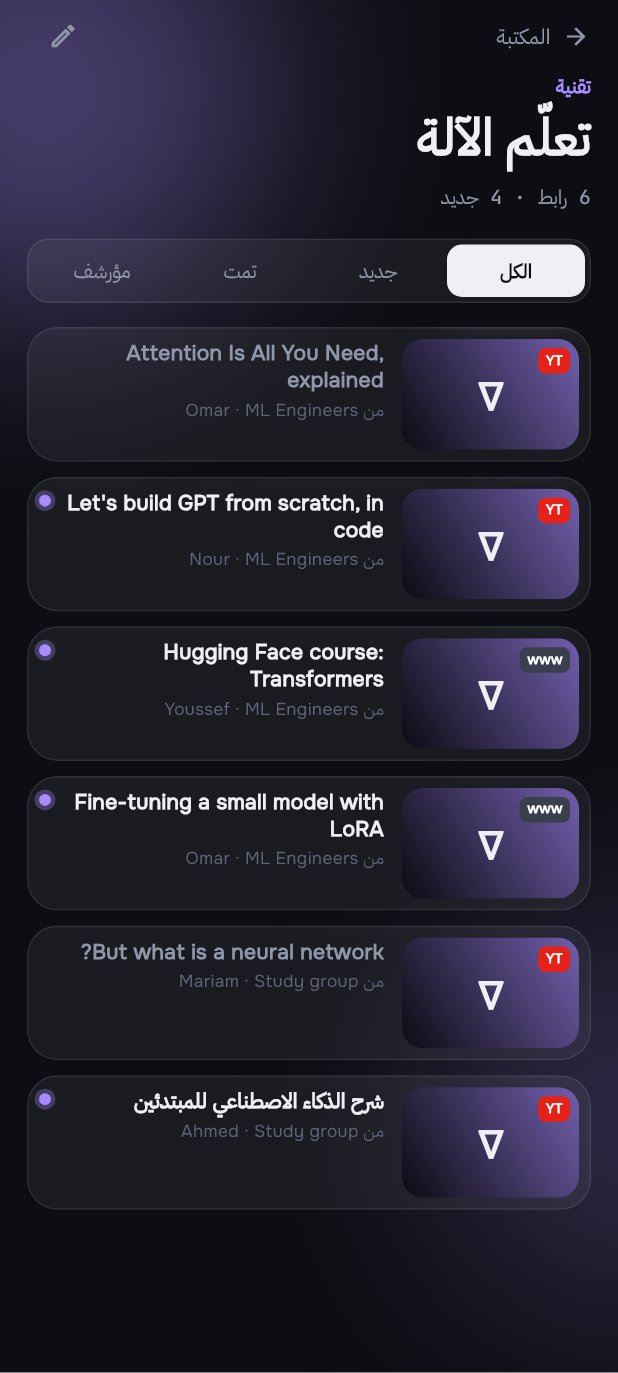
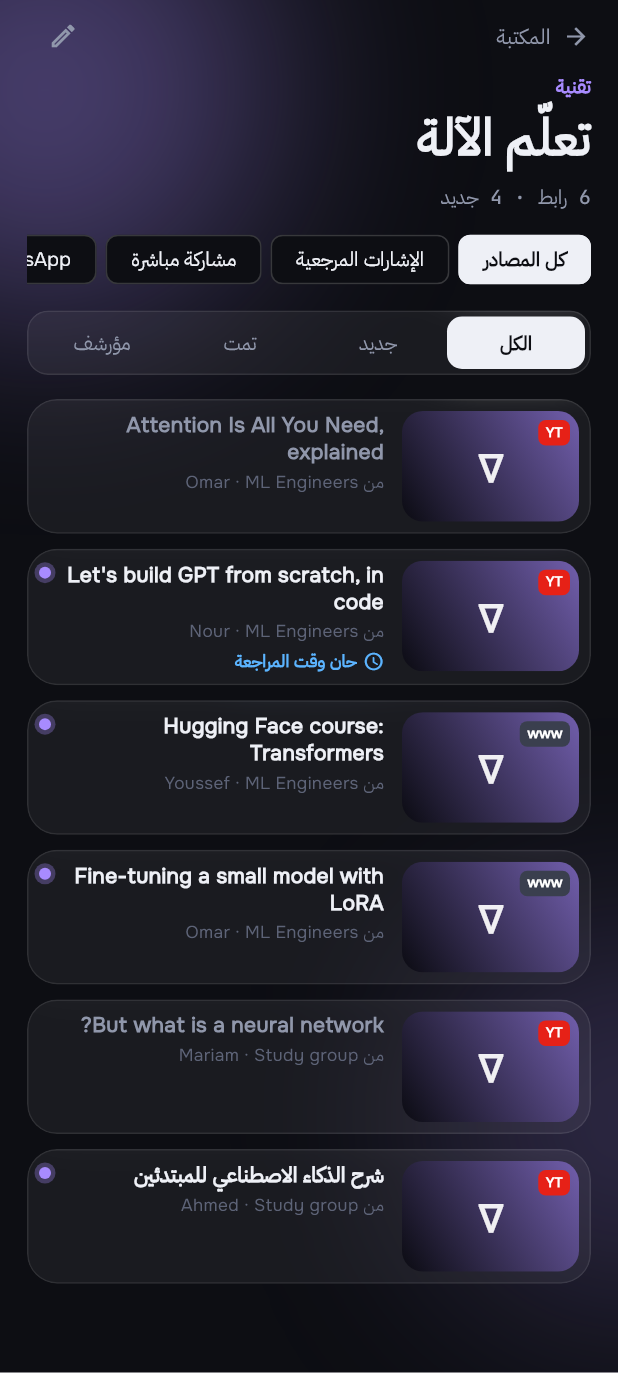
Download from GitHub releases; page and README for 1.4.1
Download button and install steps (LinkVault.apk on the latest release),
the new imports (Facebook, Instagram, YouTube, LinkedIn, link lists),
Revisit reminders and the source filter, fresh screenshots, 132 tests.

Claude-Session: https://claude.ai/code/session_01PdiUrE4Z5yNKRQcADhiDZ4

diff --git a/index.html b/index.html
@@ -4,7 +4,7 @@
 <meta charset="utf-8">
 <meta name="viewport" content="width=device-width, initial-scale=1">
 <title>LinkVault</title>
-<meta name="description" content="All the links people send you, sorted by topic, on your phone. Share from any app or import WhatsApp chats and bookmarks. No account, no server, English and Arabic.">
+<meta name="description" content="All the links people send you, sorted by topic, on your phone. Share from any app, paste a list, or import WhatsApp, Facebook, Instagram, YouTube, LinkedIn and bookmarks. No account, no server, English and Arabic.">
 <meta property="og:title" content="LinkVault">
 <meta property="og:description" content="All the links people send you, sorted by topic, on your phone.">
 <meta property="og:image" content="images/library-en.png">
@@ -165,6 +165,7 @@ footer .wrap { display: flex; flex-wrap: wrap; gap: 16px; justify-content: space
       <a href="#features">Features</a>
       <a href="#sorting">How it sorts</a>
       <a href="#screens">Screens</a>
+      <a href="#download">Download</a>
       <a class="keep" href="privacy.html">Privacy</a>
     </div>
   </div>
@@ -173,12 +174,12 @@ footer .wrap { display: flex; flex-wrap: wrap; gap: 16px; justify-content: space
 <main class="wrap" id="top">
   <div class="hero">
     <div class="reveal">
-      <span class="badge"><b></b>Android · English &amp; العربية · Version 1.0</span>
+      <span class="badge"><b></b>Android · English &amp; العربية · Version 1.4.1</span>
       <h1>All the links people send you, <em>sorted by topic</em>.</h1>
       <p class="lead">That lecture from a group chat, the article a friend sent last month, the course you bookmarked: LinkVault collects them in one place and sorts them by what they're about. On your phone, with no account and no server.</p>
       <div class="cta">
-        <a class="btn main" href="#screens">See it in action →</a>
-        <a class="btn ghost" href="#sorting">How it sorts</a>
+        <a class="btn main" href="https://github.com/mohamed-ibrahim47/linkvault-showcase/releases/latest/download/LinkVault.apk">Download for Android</a>
+        <a class="btn ghost" href="#screens">See it in action →</a>
       </div>
     </div>
     <div class="phones" aria-hidden="true">
@@ -192,7 +193,7 @@ footer .wrap { display: flex; flex-wrap: wrap; gap: 16px; justify-content: space
   <div class="stats reveal">
     <div class="stat"><b>0</b><span>accounts, passwords or servers</span></div>
     <div class="stat"><b>3</b><span>ways to sort, from keywords to on-device AI</span></div>
-    <div class="stat"><b>99</b><span>automated tests, from parsing to phone and tablet sizes</span></div>
+    <div class="stat"><b>132</b><span>automated tests, from parsing to phone and tablet sizes</span></div>
     <div class="stat"><b>2</b><span>languages, English and Arabic</span></div>
   </div>
 
@@ -204,7 +205,7 @@ footer .wrap { display: flex; flex-wrap: wrap; gap: 16px; justify-content: space
         <p class="sub">Your links grouped into categories you can rename, recolour and add to. Each one opens straight in its own app.</p>
         <ul class="ticks">
           <li><span><b>Share from any app.</b> Tap Share, pick LinkVault, and it's saved and sorted before you're back in the chat.</span></li>
-          <li><span><b>Paste a link</b> with the + button. If one is on your clipboard, it's already filled in.</span></li>
+          <li><span><b>Paste a link, or a whole list</b> with the + button. A OneTab export or a note full of links comes in at once, titles kept.</span></li>
           <li><span><b>New, Done, Archived:</b> keep track of what you've watched or read.</span></li>
           <li><span><b>Search</b> titles, notes, tags, or who sent it and in which chat.</span></li>
         </ul>
@@ -233,15 +234,32 @@ footer .wrap { display: flex; flex-wrap: wrap; gap: 16px; justify-content: space
         <p class="sub">From files you export yourself. LinkVault reads them on the phone and never logs in anywhere.</p>
         <ul class="ticks">
           <li><span><b>WhatsApp chats:</b> Export chat → Without media, then share it to LinkVault. Android, iPhone and Arabic-format exports all work.</span></li>
+          <li><span><b>Facebook, Messenger and Instagram:</b> saved posts and links from chats, from Meta's own "Export your information" download.</span></li>
+          <li><span><b>YouTube</b> Watch later, Liked videos and your playlists from Google Takeout, and <b>LinkedIn</b> links from messages, saved jobs and your posts.</span></li>
           <li><span><b>Browser bookmarks</b> from Chrome, Edge, Firefox or Safari. Folder names become sorting hints.</span></li>
+          <li><span><b>Filter by source:</b> see only what came from WhatsApp, Bookmarks, YouTube and so on, on every screen.</span></li>
           <li><span><b>No duplicates.</b> Import the same chat again and only new links come in. The same link from two people is one link with two senders.</span></li>
           <li><span><b>Moving phones?</b> Export your library, then import that file on the new phone.</span></li>
         </ul>
       </div>
-      <div class="shots"><div class="phone"><img src="images/import-en.png" alt="Import: WhatsApp, bookmarks and backups" loading="lazy"></div></div>
+      <div class="shots"><div class="phone"><img src="images/import-en.png" alt="Import: WhatsApp, Facebook, Instagram, YouTube, LinkedIn, bookmarks and lists" loading="lazy"></div></div>
     </div>
 
-    <div class="feature flip reveal" style="--c: rgba(255,181,71,.2)">
+    <div class="feature flip reveal" style="--c: rgba(91,180,255,.2)">
+      <div>
+        <div class="kicker">Revisit</div>
+        <h2>Not now? It reminds you</h2>
+        <p class="sub">Mark a link to come back to in a few hours, tomorrow or next week. When the time comes, your phone tells you.</p>
+        <ul class="ticks">
+          <li><span><b>A Revisit tab</b> with what's due now and what's coming up.</span></li>
+          <li><span><b>A notification</b> at the time you picked. Tap it and the link is open.</span></li>
+          <li><span><b>Watched it</b> marks it done, or push it back with <b>Remind me again</b>.</span></li>
+        </ul>
+      </div>
+      <div class="shots"><div class="phone"><img src="images/revisit-en.png" alt="Revisit: links coming back" loading="lazy"></div></div>
+    </div>
+
+    <div class="feature reveal" style="--c: rgba(255,181,71,.2)">
       <div>
         <div class="kicker">Sorting modes</div>
         <h2>You choose how smart it gets</h2>
@@ -295,6 +313,7 @@ footer .wrap { display: flex; flex-wrap: wrap; gap: 16px; justify-content: space
       <figure><div class="phone"><img src="images/category-en.png" alt="A category" loading="lazy"></div><figcaption>A category</figcaption></figure>
       <figure><div class="phone"><img src="images/link-en.png" alt="A link" loading="lazy"></div><figcaption>A link</figcaption></figure>
       <figure><div class="phone"><img src="images/unsorted-en.png" alt="Unsorted" loading="lazy"></div><figcaption>Unsorted</figcaption></figure>
+      <figure><div class="phone"><img src="images/revisit-en.png" alt="Revisit" loading="lazy"></div><figcaption>Revisit</figcaption></figure>
       <figure><div class="phone"><img src="images/import-en.png" alt="Import" loading="lazy"></div><figcaption>Import</figcaption></figure>
       <figure><div class="phone"><img src="images/modes-en.png" alt="Sorting modes" loading="lazy"></div><figcaption>Sorting modes</figcaption></figure>
       <figure><div class="phone"><img src="images/settings-en.png" alt="Settings" loading="lazy"></div><figcaption>Settings</figcaption></figure>
@@ -331,10 +350,24 @@ footer .wrap { display: flex; flex-wrap: wrap; gap: 16px; justify-content: space
     <div class="kicker">What's next</div>
     <h2>Coming later</h2>
     <div class="soon">
-      <div class="card"><h3>More imports</h3><p>Facebook and Messenger, Instagram saved posts, YouTube playlists and LinkedIn, from their own data downloads.</p></div>
       <div class="card"><h3>Phone AI</h3><p>On phones with a built-in model, one-line summaries and a second opinion when sorting is unsure.</p></div>
       <div class="card"><h3>Automatic backup</h3><p>To your own Google Drive, never to a LinkVault server.</p></div>
     </div>
+  </section>
+
+  <section id="download" class="reveal">
+    <div class="kicker">Download</div>
+    <h2>Get it on your Android phone</h2>
+    <p class="sub">Free, no ads, no account. Android 7 or newer. The file comes straight from this page's GitHub, signed by me, and every update keeps your links.</p>
+    <div class="cta" style="margin-top: 22px">
+      <a class="btn main" href="https://github.com/mohamed-ibrahim47/linkvault-showcase/releases/latest/download/LinkVault.apk">Download LinkVault.apk</a>
+      <a class="btn ghost" href="https://github.com/mohamed-ibrahim47/linkvault-showcase/releases">All versions and what's new</a>
+    </div>
+    <ul class="ticks">
+      <li><span><b>Open the downloaded file.</b> Android asks once to allow installs from your browser or Files app: tap Settings, turn on <b>Allow from this source</b>, and go back.</span></li>
+      <li><span><b>Tap Install.</b> If Play Protect says it doesn't know the app, tap <b>More details → Install anyway</b>. It's new and not on the Play Store, that's all.</span></li>
+      <li><span><b>Updating?</b> Download the new file and install it over the old one. Your library stays.</span></li>
+    </ul>
   </section>
 </main>
 

diff --git a/README.md b/README.md
@@ -8,7 +8,13 @@ That YouTube lecture from a group chat, the article a friend sent last month, th
 
 > The source code is private. This page shows what the app does and how it works.
 
-<!-- Store badge goes here once the app is live on the Galaxy Store -->
+## Download
+
+**[⬇ Download LinkVault.apk](https://github.com/mohamed-ibrahim47/linkvault-showcase/releases/latest/download/LinkVault.apk)** (latest version, Android 7+, free, no ads) · [all versions](https://github.com/mohamed-ibrahim47/linkvault-showcase/releases)
+
+1. Open the downloaded file. Android asks once to allow installs from your browser or Files app: tap **Settings**, turn on **Allow from this source**, go back.
+2. Tap **Install**. If Play Protect says it doesn't know the app, tap **More details → Install anyway**. It's simply not on the Play Store.
+3. To update, install the new file over the old one. Your library stays.
 
 ## Screenshots
 
@@ -18,17 +24,17 @@ Real screens from the app, with a made-up library.
 |---|---|---|---|
 | <img src="images/library-en.png" width="200" alt="Library"> | <img src="images/category-en.png" width="200" alt="A category"> | <img src="images/unsorted-en.png" width="200" alt="Unsorted with suggestions"> | <img src="images/import-en.png" width="200" alt="Import"> |
 
-| A link | Sorting modes | Settings | بالعربي |
+| A link | Revisit | Sorting modes | بالعربي |
 |---|---|---|---|
-| <img src="images/link-en.png" width="200" alt="A link and where it came from"> | <img src="images/modes-en.png" width="200" alt="Choosing how it sorts"> | <img src="images/settings-en.png" width="200" alt="Settings"> | <img src="images/library-ar.png" width="200" alt="Library in Arabic"> |
+| <img src="images/link-en.png" width="200" alt="A link and where it came from"> | <img src="images/revisit-en.png" width="200" alt="Revisit: links coming back"> | <img src="images/modes-en.png" width="200" alt="Choosing how it sorts"> | <img src="images/library-ar.png" width="200" alt="Library in Arabic"> |
 
 ## The core idea: it never sees a password
 
 Links come in only in ways you start yourself:
 
 - **The share sheet.** Tap Share on any link in any app and pick LinkVault. It's saved instantly and sorted.
-- **Paste.** The + button adds a link, already filled in if one is on your clipboard.
-- **Exports you download yourself.** WhatsApp's "Export chat" or your browser's bookmarks file. LinkVault reads the file on your phone and never logs in anywhere.
+- **Paste.** The + button adds a link, already filled in if one is on your clipboard, or a whole list of links at once.
+- **Exports you download yourself.** WhatsApp's "Export chat", Meta's or Google's data download, LinkedIn's data export, or your browser's bookmarks file. LinkVault reads the file on your phone and never logs in anywhere.
 
 Everything is stored and processed on the device. There is no LinkVault server.
 
@@ -36,10 +42,17 @@ Everything is stored and processed on the device. There is no LinkVault server.
 
 - **Imports**
   - **WhatsApp chats:** Android, iPhone and Arabic-format exports, `.txt` or `.zip`.
+  - **Facebook and Messenger:** saved items and links from chats, from Meta's "Export your information" (JSON).
+  - **Instagram:** saved posts and links from DMs, from the same Meta download.
+  - **YouTube:** Watch later, Liked videos and your own playlists from Google Takeout. The playlist name becomes the source.
+  - **LinkedIn:** links from messages (with who sent them), saved jobs and the links you posted, from LinkedIn's data export.
   - **Browser bookmarks:** Chrome, Edge, Firefox, Safari or Google Takeout. Your folder names become sorting hints.
+  - **Lists of links:** paste them into +, share a note into LinkVault, or pick a `.txt` file. OneTab's "url | title" lines keep their titles.
   - **LinkVault backups:** export your library, then import it on a new phone.
 - **No duplicates.** Import the same chat again and only the new links come in. The same link from two people is one link with two senders.
 - **Previews.** Titles and pictures are read in the background, with a Wi-Fi-only option and polite pacing per site.
+- **Revisit later.** Pick a time (in a few hours, tomorrow, next week) and your phone reminds you with a notification. A Revisit tab shows what's due and what's coming up.
+- **Filter by source.** One tap shows only what came from WhatsApp, Bookmarks, YouTube, LinkedIn and so on, on every screen.
 - **Organisation.** Categories you can rename, recolour and add to, tags, notes, and a status for each link: New, Done or Archived. Tap a link and it opens in its own app.
 - **Unsorted with suggestions.** Links the app isn't sure about wait with their three best guesses. One tap sorts them, and teaches the app.
 - **Delete** a link with Undo, hold to select several, or delete everything from Settings.
@@ -74,11 +87,10 @@ No account, no login, no analytics, no ads. The app goes online only to read lin
 - **SQLite** on the device, plus a JSON export that can be imported back.
 - The AI model runs through **ONNX Runtime** in native Android code on a background thread. Tokenizing, the keyword scorer and the classifier are pure Dart, so they're unit-tested and run in background isolates.
 - A foreground notification keeps long imports and preview reads alive when you leave the app.
-- 99 automated tests cover the parsers, URL cleaning, the tokenizer, the sorters, restore, and every main screen in both languages on phone, Fold and tablet sizes and with large text.
+- 132 automated tests cover every import format, URL cleaning, the tokenizer, the sorters, restore, and every main screen in both languages on phone, Fold and tablet sizes and with large text.
 
 ## Coming next
 
-- Facebook and Messenger, Instagram, YouTube (Takeout) and LinkedIn imports
 - Phone AI on flagship phones (Gemini Nano)
 - Automatic backup to your own Google Drive 
 
